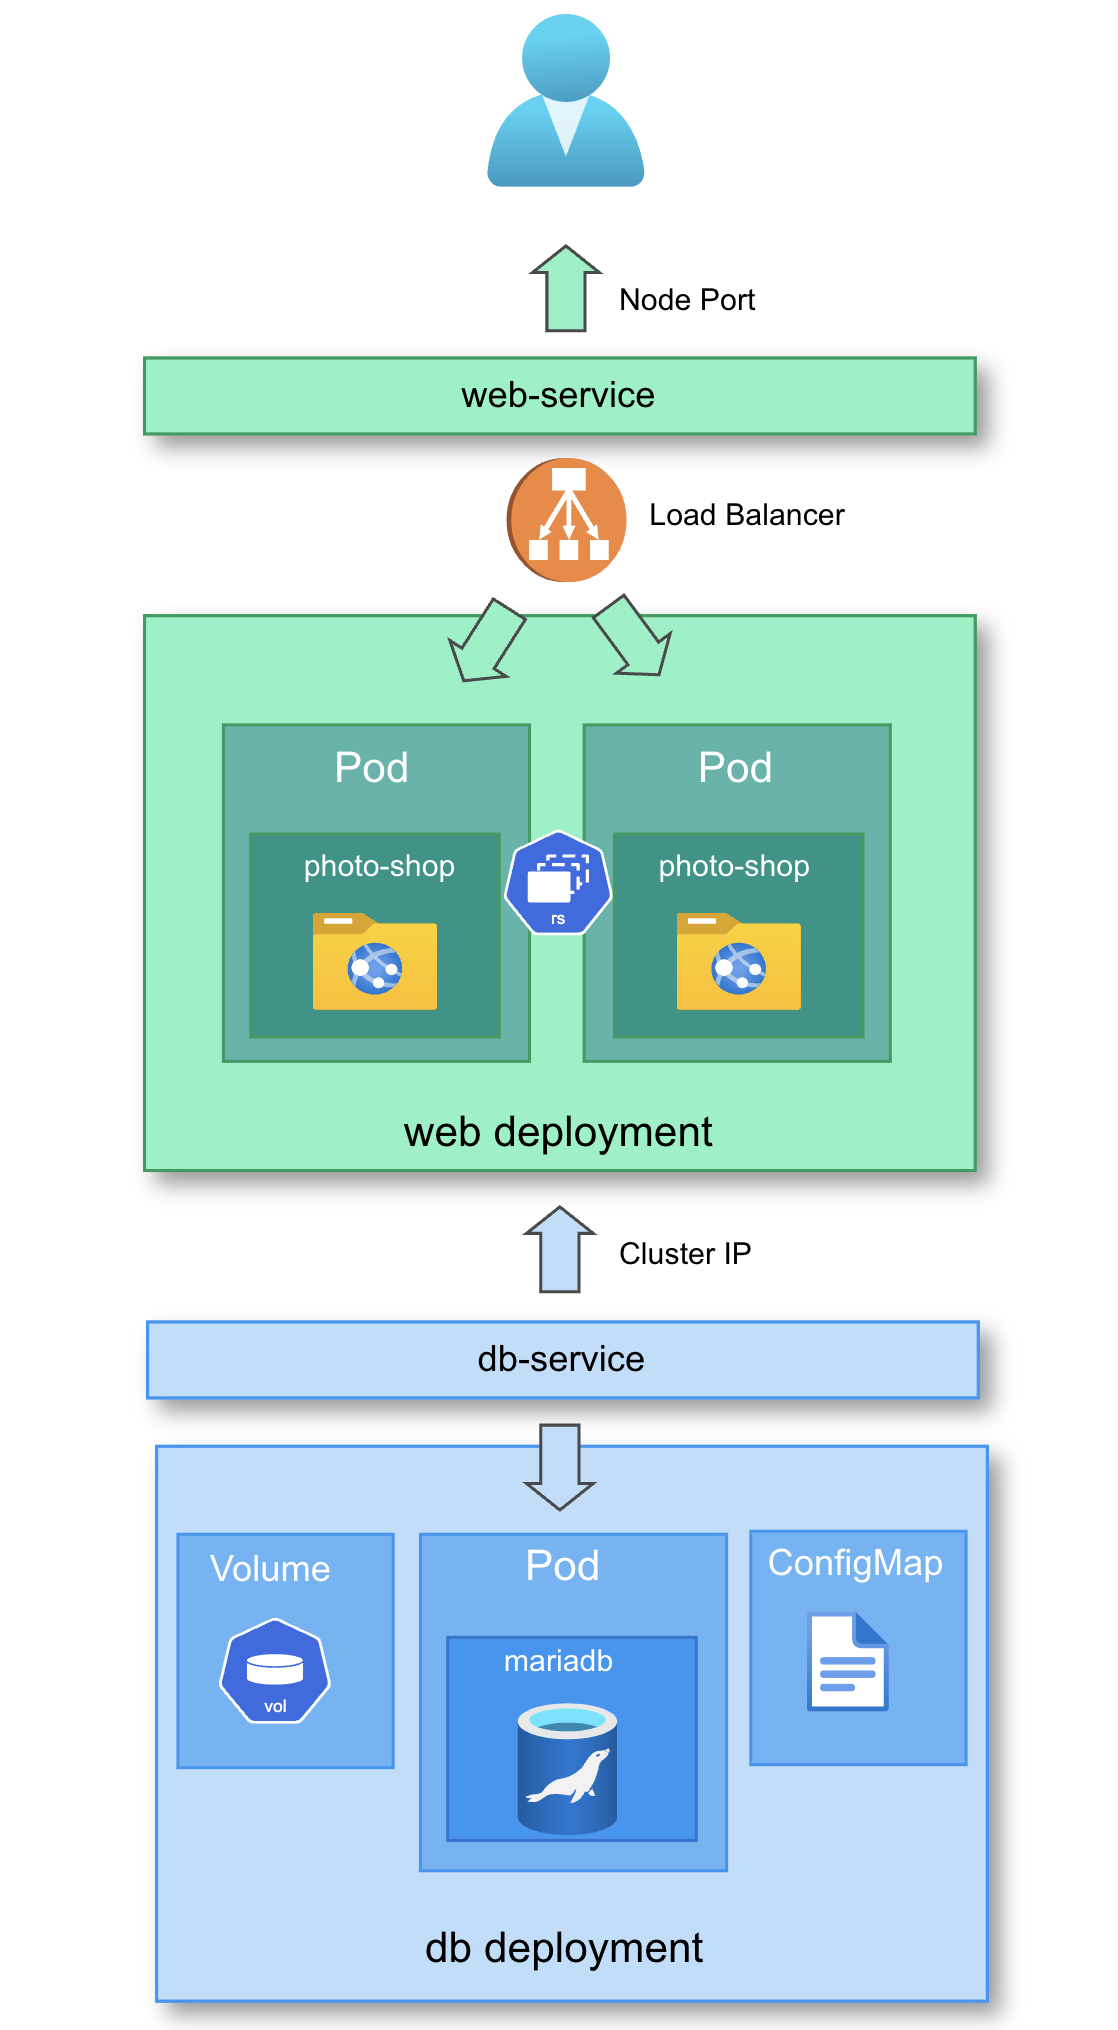
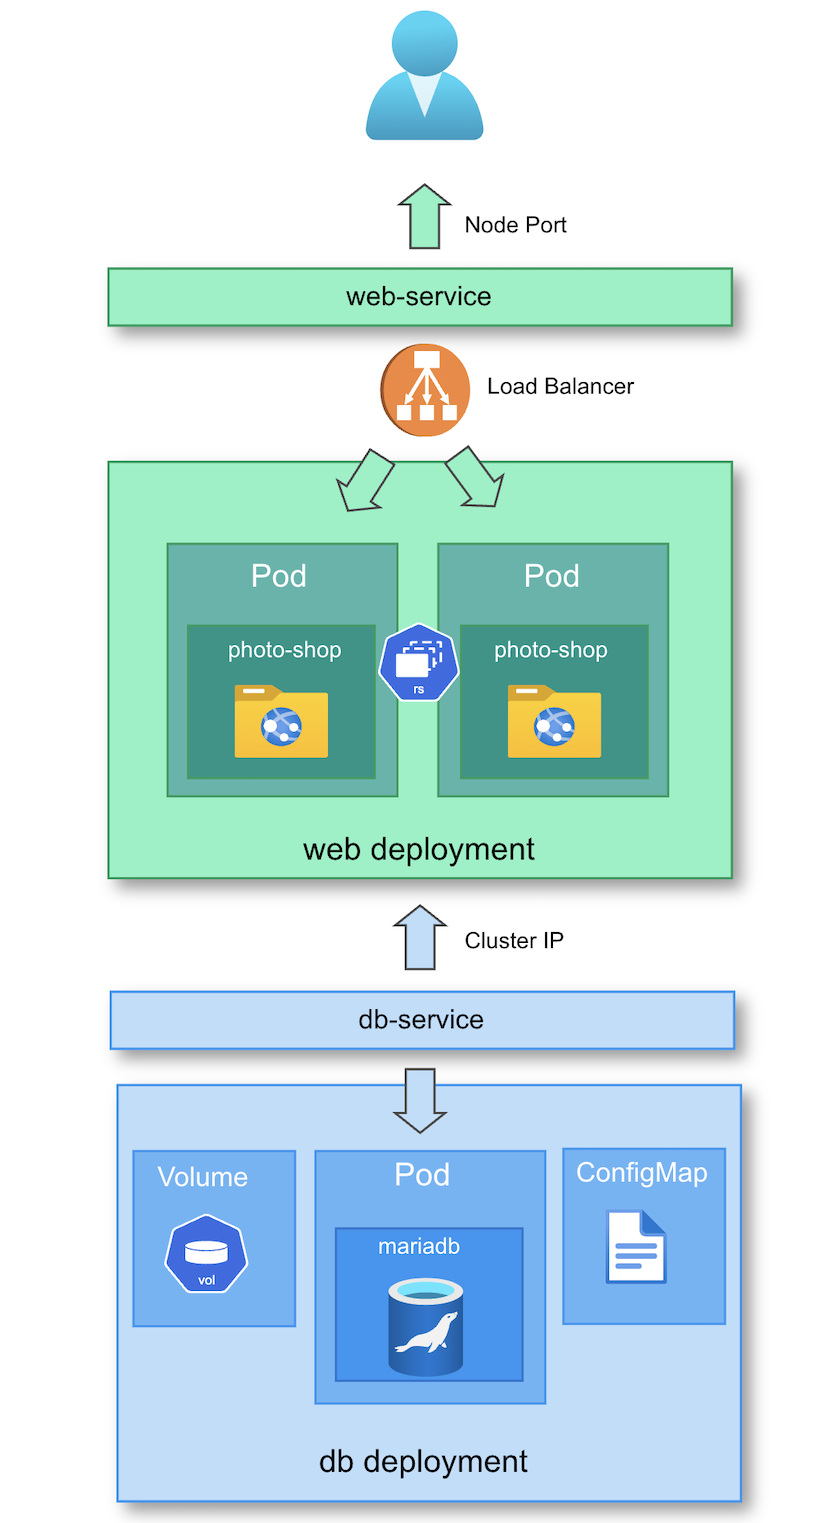
update README

Changed region(s): [[0.6508, 0.2469, 0.6818, 0.2777], [0.4958, 0.6481, 0.5268, 0.6789], [0.4338, 0.6481, 0.4648, 0.6789]]

diff --git a/README.md b/README.md
@@ -31,7 +31,11 @@ The web server will display the images registered in the database and will expos
 
 
 
-This project runs a Kubernetes cluster with a [photo-shop](https://github.com/awoisoak/photo-shop) server deployment and a mariadb database one
+
+This project runs a Kubernetes cluster with two deployments: one for a [photo-shop](https://github.com/awoisoak/photo-shop) web server and another one for a mariadb database.
+
+
+![kubernetes diagram](https://github.com/awoisoak/devops-sandbox/blob/master/projects/kubernetes/diagram.png)
 
 
  ### db-deploy.yaml
@@ -70,6 +74,7 @@ However, if you are running K8s on minikube you will have to obtain the ip:port 
 ➜  kubernetes git:(master) ✗ minikube service photo-shop-service --url
 http://127.0.0.1:51781
 ```
+
 
 
 
